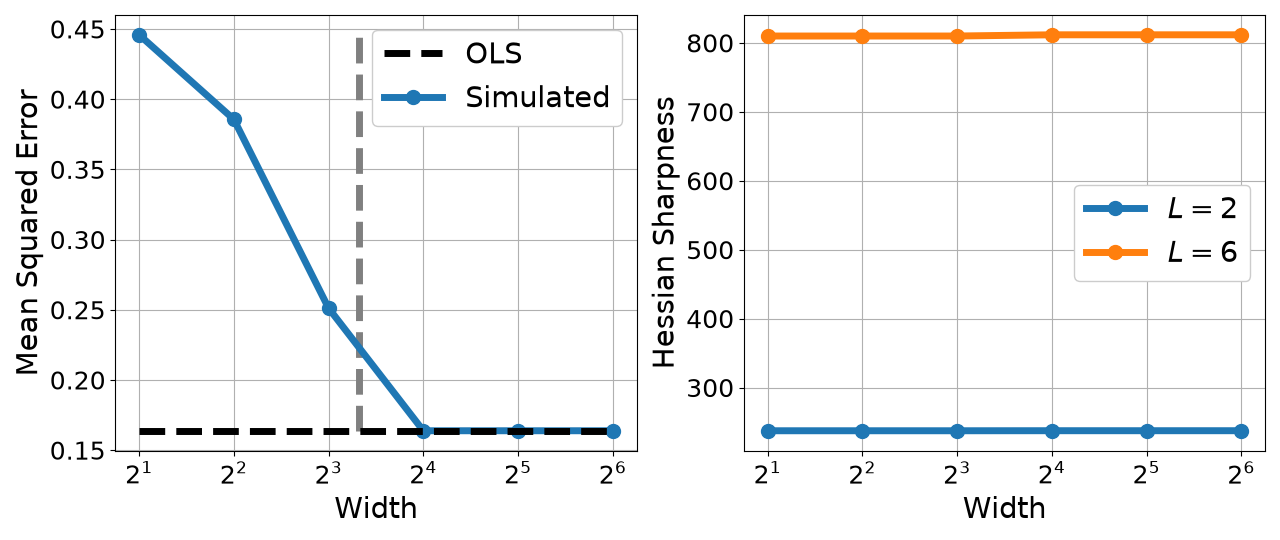
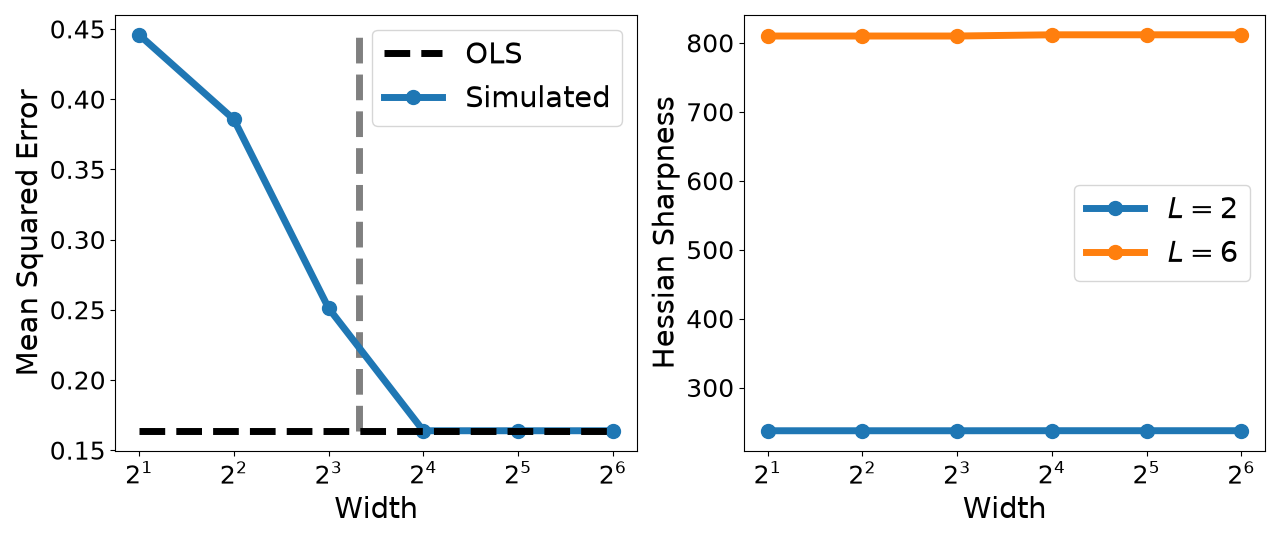
get rid of grids; using hessian for fig 3

diff --git a/effect_of_isotropy.py b/effect_of_isotropy.py
@@ -19,7 +19,8 @@ OUTPUT_DIMS = (10, 10, 10)
 d, L = 128, 2
 LOSS_TYPE = MSE_LOSS
 width = 0.8
-hessian_sharpness = None    # Set to any value to not compute sharpness
+ntk_sharpness = None        # Set to any value to not compute ntk sharpness
+# hessian_sharpness = None    # Set to any value to not compute hessian sharpness
 
 
 def main(Dataset, feat_transform, output_dim, L, d, loss_type):
@@ -52,12 +53,15 @@ def main(Dataset, feat_transform, output_dim, L, d, loss_type):
     upper_bound = L * lower_bound
 
     # NTK sharpness
-    ntk, xu_1 = 0., x @ u_1
-    for l in range(1, L+1):
-        left_gram = 1/x.size(0) * (x @ x.T if l == 1 else (xu_1 * s_W**(2*(l-1))) @ xu_1.T)
-        right_gram = (v_L * s_W**(2*(L-l))) @ v_L.T
-        ntk += torch.kron(left_gram, right_gram)
-    ntk_sharpness = torch.lobpcg(ntk)[0].item()
+    if "ntk_sharpness" in globals():
+        ntk_sharpness = globals()["ntk_sharpness"]
+    else:
+        ntk, xu_1 = 0., x @ u_1
+        for l in range(1, L+1):
+            left_gram = 1/x.size(0) * (x @ x.T if l == 1 else (xu_1 * s_W**(2*(l-1))) @ xu_1.T)
+            right_gram = (v_L * s_W**(2*(L-l))) @ v_L.T
+            ntk += torch.kron(left_gram, right_gram)
+        ntk_sharpness = torch.lobpcg(ntk)[0].item()
 
     # Hessian sharpness
     if "hessian_sharpness" in globals():
@@ -88,7 +92,7 @@ def main(Dataset, feat_transform, output_dim, L, d, loss_type):
             loss = loss_fn(model(x), y, loss_type=loss_type)
             print(f"Simulated OLS solution's loss: {loss.item():.6e}")
         p = sum(p.numel() for p in model.parameters() if p.requires_grad)
-        hvp_delta = lambda vector: compute_hvp(x, y, model, vector).detach().cpu()
+        hvp_delta = lambda vector: compute_hvp(x, y, model, LOSS_TYPE, vector, DEVICE).detach().cpu()
         hessian_sharpness, _ = lanczos(tensor_matvec=hvp_delta, p=p, n_eigs=1)
         hessian_sharpness = hessian_sharpness.item()
         del model
@@ -115,8 +119,8 @@ for Dataset, output_dim in zip(DATASETS, OUTPUT_DIMS):
 lower_bounds, ntk_sharpnesses, hessian_sharpnesses, upper_bounds = map(np.array, zip(*outs))
 objs = (
     (lower_bounds, "Lower Bound"),
-    (ntk_sharpnesses, "NTK Sharpness"),
-    # (hessian_sharpnesses, "Hessian Sharpness"),   # Plot to verify that the NTK sharpness has been correctly computed
+    # (ntk_sharpnesses, "NTK Sharpness"),
+    (hessian_sharpnesses, "Hessian Sharpness"),   # Plot to verify that the NTK sharpness has been correctly computed
     (upper_bounds, "Upper Bound"),
 )
 
@@ -137,7 +141,8 @@ for Dataset, output_dim in zip(DATASETS, OUTPUT_DIMS):
 lower_bounds, ntk_sharpnesses, hessian_sharpnesses, upper_bounds = map(np.array, zip(*outs))
 objs = (
     (lower_bounds, "Lower Bound"),
-    (ntk_sharpnesses, "NTK Sharpness"),
+    # (ntk_sharpnesses, "NTK Sharpness"),
+    (hessian_sharpnesses, "Hessian Sharpness"),
     (upper_bounds, "Upper Bound"),
 )
 
@@ -164,7 +169,8 @@ for pert_rad in pert_rads:
 lower_bounds, ntk_sharpnesses, hessian_sharpnesses, upper_bounds = map(np.array, zip(*outs))
 objs = (
     (lower_bounds, "Lower Bound"),
-    (ntk_sharpnesses, "NTK Sharpness"),
+    # (ntk_sharpnesses, "NTK Sharpness"),
+    (hessian_sharpnesses, "Hessian Sharpness"),
     (upper_bounds, "Upper Bound"),
 )
 
@@ -181,4 +187,4 @@ fn = f"{ASSETS}/{source_name}.png"
 os.makedirs(os.path.dirname(fn), exist_ok=True)
 plt.savefig(fn)
 plt.close()
-print(f"\nPlot saved at {fn}")
+print(f"Plot saved at {fn}")

diff --git a/effect_of_dataset_size.py b/effect_of_dataset_size.py
@@ -76,7 +76,7 @@ if __name__ == "__main__":
         ax.set_xticks(MAX_PROPS[1::2])
         ax.tick_params(axis="both", labelsize=LABEL_SIZE)
         ax.set_xlabel("Maximum Label Proportion", fontsize=FONT_SIZE)
-        ax.grid()
+        # ax.grid()
 
     axs[0].set_ylabel("Final Sharpness", fontsize=FONT_SIZE)
     axs[0].legend(loc="upper left", fontsize=FONT_SIZE, framealpha=FRAME_ALPHA)

diff --git a/sharpness_vs_param_norm.py b/sharpness_vs_param_norm.py
@@ -59,7 +59,7 @@ if __name__ == "__main__":
         ax.tick_params(axis="both", labelsize=LABEL_SIZE)
         ax.set_xlabel("Epoch", fontsize=FONT_SIZE)
         ax.set_ylabel("Hessian Sharpness", fontsize=FONT_SIZE, color=p[-1].get_color())
-        ax.grid()
+        # ax.grid()
         ax_twin = ax.twinx()
         p = ax_twin.plot(
             LOG_EVERY*np.arange(0, len(sq_param_norms)),

diff --git a/eigvals_error_deep.py b/eigvals_error_deep.py
@@ -76,7 +76,7 @@ if __name__ == "__main__":
             )
         ax.tick_params(axis="both", labelsize=LABEL_SIZE)
         ax.set_xlabel("Epoch", fontsize=FONT_SIZE)
-        ax.grid()
+        # ax.grid()
 
     axs[0].set_ylabel(r"%Error in $\lambda_{{i}}$ Approximation", fontsize=FONT_SIZE)
     axs[0].legend(loc="upper right", ncol=2, fontsize=FONT_SIZE, framealpha=FRAME_ALPHA)

diff --git a/eigvals_error_shallow.py b/eigvals_error_shallow.py
@@ -77,7 +77,7 @@ if __name__ == "__main__":
             )
         ax.tick_params(axis="both", labelsize=LABEL_SIZE)
         ax.set_xlabel("Epoch", fontsize=FONT_SIZE)
-        ax.grid()
+        # ax.grid()
 
     axs[0].set_ylabel(r"%Error in $\lambda_{{i}}$ Approximation", fontsize=FONT_SIZE)
     axs[0].legend(loc="upper right", ncol=2, fontsize=FONT_SIZE, framealpha=FRAME_ALPHA)

diff --git a/ablation_nonlinear_activation.py b/ablation_nonlinear_activation.py
@@ -69,7 +69,7 @@ if __name__ == "__main__":
     ax.set_xlabel("Maximum Label Proportion", fontsize=FONT_SIZE)
     # ax.set_ylabel("Final Sharpness", fontsize=FONT_SIZE)
     # ax.legend(loc="upper left", fontsize=FONT_SIZE, framealpha=FRAME_ALPHA)
-    ax.grid()
+    # ax.grid()
 
     fig.tight_layout()
     fn = f"{ASSETS}/{source_name}.png"

diff --git a/ablation_unbalanced_weights.py b/ablation_unbalanced_weights.py
@@ -68,7 +68,7 @@ if __name__ == "__main__":
     ax.set_xlabel("Maximum Label Proportion", fontsize=FONT_SIZE)
     # ax.set_ylabel("Final Sharpness", fontsize=FONT_SIZE)
     ax.legend(loc="upper left", fontsize=FONT_SIZE, framealpha=FRAME_ALPHA)
-    ax.grid()
+    # ax.grid()
 
     fig.tight_layout()
     fn = f"{ASSETS}/{source_name}.png"

diff --git a/ablation_anisotropic_features.py b/ablation_anisotropic_features.py
@@ -68,7 +68,7 @@ if __name__ == "__main__":
     ax.set_xlabel("Maximum Label Proportion", fontsize=FONT_SIZE)
     ax.set_ylabel("Final Sharpness", fontsize=FONT_SIZE)
     ax.legend(loc="center left", fontsize=FONT_SIZE, framealpha=FRAME_ALPHA)
-    ax.grid()
+    # ax.grid()
 
     fig.tight_layout()
     fn = f"{ASSETS}/{source_name}.png"

diff --git a/sharpness_balanced_init.py b/sharpness_balanced_init.py
@@ -69,7 +69,7 @@ if __name__ == "__main__":
     ax.set_xlabel("Maximum Label Proportion", fontsize=FONT_SIZE)
     ax.set_ylabel("Final Sharpness", fontsize=FONT_SIZE)
     ax.legend(loc="upper left", fontsize=FONT_SIZE, framealpha=FRAME_ALPHA)
-    ax.grid()
+    # ax.grid()
 
     fig.tight_layout()
     fn = f"{ASSETS}/{source_name}.png"

diff --git a/all_eigvals_shallow.py b/all_eigvals_shallow.py
@@ -81,7 +81,7 @@ if __name__ == "__main__":
         ax.set_ylabel(r"Eigenvalue, $\lambda_i$", fontsize=FONT_SIZE)
         ax.set_title(Dataset.__name__, fontsize=20)
         ax.set_xscale("log")
-        ax.grid()
+        # ax.grid()
 
     axs[0].legend(loc="lower left", fontsize=FONT_SIZE, framealpha=FRAME_ALPHA)
 

diff --git a/comparing_bounds_deep.py b/comparing_bounds_deep.py
@@ -80,7 +80,7 @@ if __name__ == "__main__":
         )
         ax.tick_params(axis="both", labelsize=LABEL_SIZE)
         ax.set_xlabel("Epoch", fontsize=FONT_SIZE)
-        ax.grid()
+        # ax.grid()
 
     axs[0].legend(loc="upper right", fontsize=FONT_SIZE, framealpha=FRAME_ALPHA)
 

diff --git a/comparing_bounds_shallow.py b/comparing_bounds_shallow.py
@@ -81,7 +81,7 @@ if __name__ == "__main__":
         )
         ax.tick_params(axis="both", labelsize=LABEL_SIZE)
         ax.set_xlabel("Epoch", fontsize=FONT_SIZE)
-        ax.grid()
+        # ax.grid()
 
     axs[0].legend(loc="upper right", fontsize=FONT_SIZE, framealpha=FRAME_ALPHA)
 
